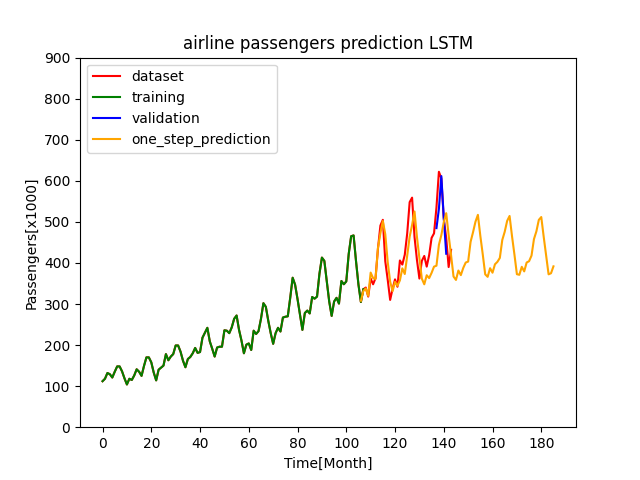
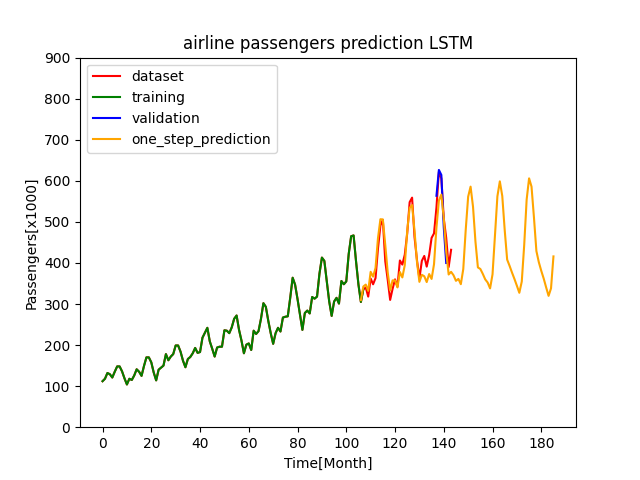
adjust also bidirectional and stacked lstms

Changed region(s): [[0.5625, 0.3438, 0.875, 0.625]]

diff --git a/TimeSeriesPrediction/UnivariatTimeSeriesForecast/AirlinePassengers/Keras/LSTM/airline_passengers_keras_stacked_lstm.py b/TimeSeriesPrediction/UnivariatTimeSeriesForecast/AirlinePassengers/Keras/LSTM/airline_passengers_keras_stacked_lstm.py
@@ -3,7 +3,7 @@ import matplotlib.pyplot as plt
 from sklearn.preprocessing import MinMaxScaler
 from TimeSeriesPrediction.UnivariatTimeSeriesForecast.AirlinePassengers.airline_passengers_utilities import *
 
-EPOCHS = 1000
+EPOCHS = 600
 LEARNING_RATE = 0.001
 BATCH_SIZE = 1
 LOOK_BACK = 30
@@ -21,6 +21,9 @@ def main():
 
     train_timeseries, train_targets = TimeSeriesGenerator(scaled_train, LOOK_BACK).create_timeseries()
     test_timeseries, test_targets = TimeSeriesGenerator(scaled_test, LOOK_BACK).create_timeseries()
+
+    train_timeseries = train_timeseries.reshape(train_timeseries.shape[0],train_timeseries.shape[2], train_timeseries.shape[1])
+    test_timeseries = test_timeseries.reshape(test_timeseries.shape[0], test_timeseries.shape[2], test_timeseries.shape[1])
 
     model = LSTMModel(LOOK_BACK)
     model.compile(optimizer=optimizers.Adam(LEARNING_RATE), loss='mean_squared_error')
@@ -98,7 +101,7 @@ def one_step_ahead_forecast(model, current_value, number_of_predictions):
         one_step_ahead_forecast.append(prediction[0][0])
         current_value = np.delete(current_value, 0)
         current_value = np.append(current_value, prediction)
-        current_value = current_value.reshape(1, current_value.shape[0], 1)
+        current_value = current_value.reshape(1, 1, current_value.shape[0])
     return one_step_ahead_forecast
 
 

diff --git a/TimeSeriesPrediction/UnivariatTimeSeriesForecast/AirlinePassengers/Keras/LSTM/airline_passengers_keras_bidirectional_lstm.py b/TimeSeriesPrediction/UnivariatTimeSeriesForecast/AirlinePassengers/Keras/LSTM/airline_passengers_keras_bidirectional_lstm.py
@@ -3,7 +3,7 @@ import matplotlib.pyplot as plt
 from sklearn.preprocessing import MinMaxScaler
 from TimeSeriesPrediction.UnivariatTimeSeriesForecast.AirlinePassengers.airline_passengers_utilities import *
 
-EPOCHS = 1000
+EPOCHS = 600
 LEARNING_RATE = 0.001
 BATCH_SIZE = 1
 LOOK_BACK = 30
@@ -20,6 +20,9 @@ def main():
 
     train_timeseries, train_targets = TimeSeriesGenerator(scaled_train, LOOK_BACK).create_timeseries()
     test_timeseries, test_targets = TimeSeriesGenerator(scaled_test, LOOK_BACK).create_timeseries()
+
+    train_timeseries = train_timeseries.reshape(train_timeseries.shape[0],train_timeseries.shape[2], train_timeseries.shape[1])
+    test_timeseries = test_timeseries.reshape(test_timeseries.shape[0], test_timeseries.shape[2], test_timeseries.shape[1])
 
     model = LSTMModel(LOOK_BACK)
     model.compile(optimizer=optimizers.Adam(LEARNING_RATE), loss='mean_squared_error')
@@ -90,7 +93,7 @@ def one_step_ahead_forecast(model, current_value, number_of_predictions):
         one_step_ahead_forecast.append(prediction[0][0])
         current_value = np.delete(current_value, 0)
         current_value = np.append(current_value, prediction)
-        current_value = current_value.reshape(1, current_value.shape[0], 1)
+        current_value = current_value.reshape(1, 1, current_value.shape[0])
     return one_step_ahead_forecast
 
 
